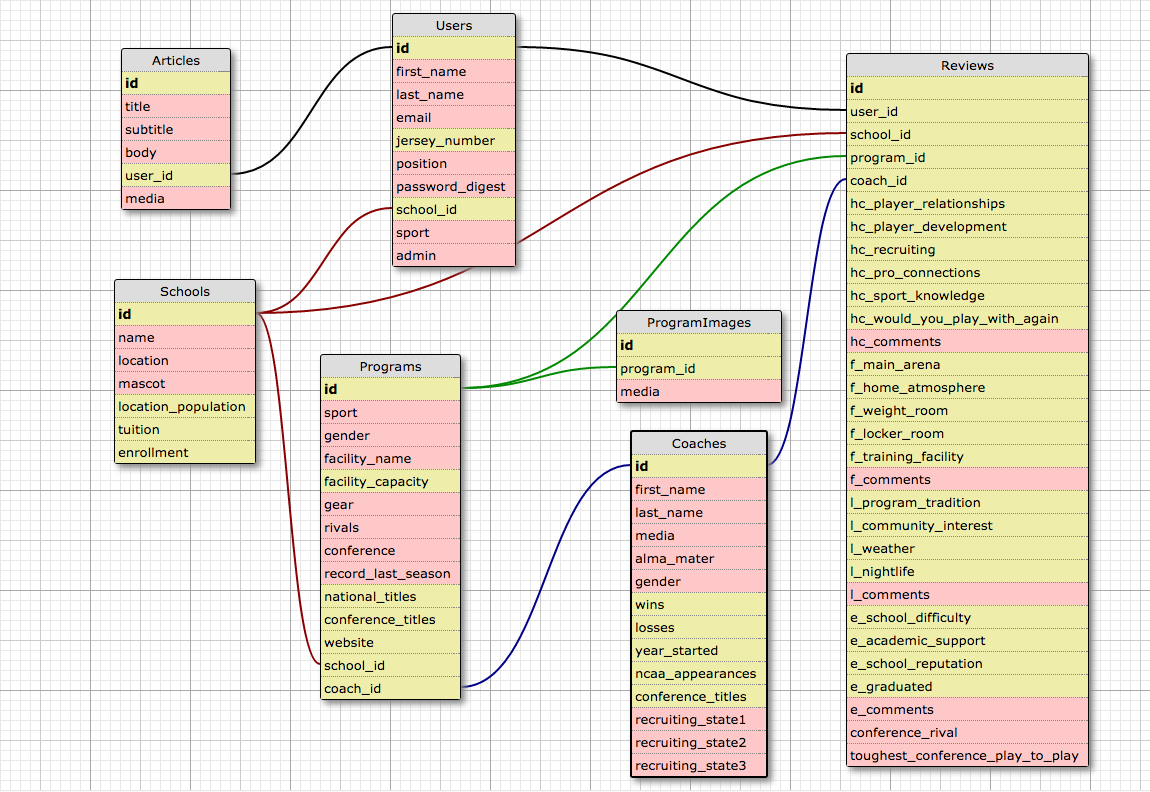
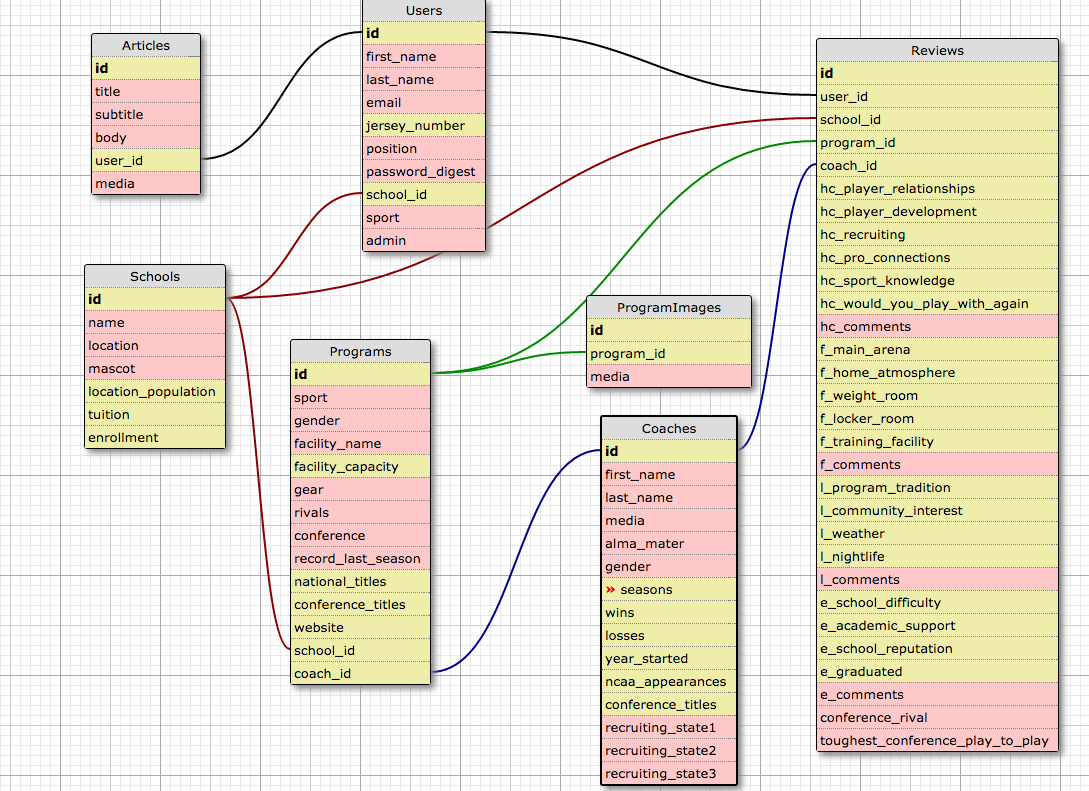
Complete more database changes and logic for displaying paragraph of information for head coach overview

diff --git a/app/assets/stylesheets/review_display.scss b/app/assets/stylesheets/review_display.scss
@@ -78,3 +78,7 @@
 .overall-info {
   margin-top: 2em;
 }
+
+.underline {
+  text-decoration: underline;
+}

diff --git a/db/seeds.rb b/db/seeds.rb
@@ -100,7 +100,7 @@ articles_for_seeding = [
 Article.create!(articles_for_seeding)
 
 coaches = 50.times.map do
-  Coach.create!(first_name: Faker::Name.first_name, last_name: Faker::Name.last_name, alma_mater: ["University of Notre Dame", 'University of West Florida', 'Duke University'].sample, gender: ['male', 'female'].sample, wins: rand(1..50), losses: rand(1..50), year_started: [2001, 2005, 1977].sample, ncaa_appearances: rand(0..10), conference_titles: rand(0..5), recruiting_state1: 'Illinois', recruiting_state2: 'Florida', recruiting_state3: 'Georgia')
+  Coach.create!(first_name: Faker::Name.first_name, last_name: Faker::Name.last_name, alma_mater: ["University of Notre Dame", 'University of West Florida', 'Duke University'].sample, gender: ['male', 'female'].sample, wins: rand(1..50), losses: rand(1..50), year_started: [2001, 2005, 1977].sample, ncaa_appearances: rand(0..10), conference_titles: rand(0..5), recruiting_state1: 'Illinois', recruiting_state2: 'Florida', recruiting_state3: 'Georgia', seasons: rand(1..5))
 end
 
 schools.each do |school|

diff --git a/app/models/coach.rb b/app/models/coach.rb
@@ -42,6 +42,30 @@ class Coach < ActiveRecord::Base
     self.all.sort_by(&:average_coach_rating).reverse[0..4]
   end
 
+  def win_percentage
+    (wins/(wins + losses.to_f) * 100).round
+  end
+
+  def skill_rankings
+    object = [{score: average_sport_knowledge, language: 'knowledge of the sport'}, {score: average_pro_connections, language: 'professional connections'}, {score: average_player_development, language: 'development of players'}, {score: average_player_relationships, language: 'development of relationships with players'}, {score: average_recruiting, language: 'recruiting' }].sort!{|a,b| a[:score] <=> b[:score]}
+  end
+
+  def weak_point
+    skill_rankings[0][:language]
+  end
+
+  def strong_point
+    skill_rankings.last[:language]
+  end
+
+  def his
+    gender == 'male' ? 'his' : 'her'
+  end
+
+  def he
+    gender == 'male' ? 'he' : 'she'
+  end
+
   def comments
     reviews.map { |review| review.hc_comments}
   end

diff --git a/db/schema.rb b/db/schema.rb
@@ -41,6 +41,7 @@ ActiveRecord::Schema.define(version: 20160601153226) do
     t.integer  "wins"
     t.integer  "losses"
     t.integer  "year_started"
+    t.integer  "seasons"
     t.integer  "ncaa_appearances"
     t.integer  "conference_titles"
     t.string   "recruiting_state1"

diff --git a/db/migrate/20160601144432_create_coaches.rb b/db/migrate/20160601144432_create_coaches.rb
@@ -9,6 +9,7 @@ class CreateCoaches < ActiveRecord::Migration
       t.integer :wins
       t.integer :losses
       t.integer :year_started
+      t.integer :seasons
       t.integer :ncaa_appearances
       t.integer :conference_titles
       t.string :recruiting_state1
